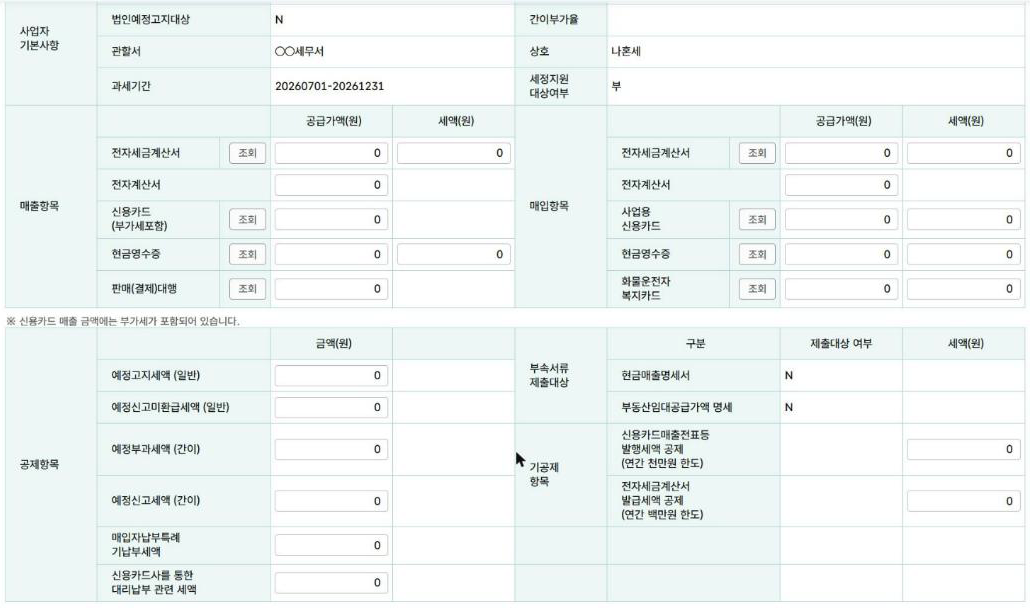
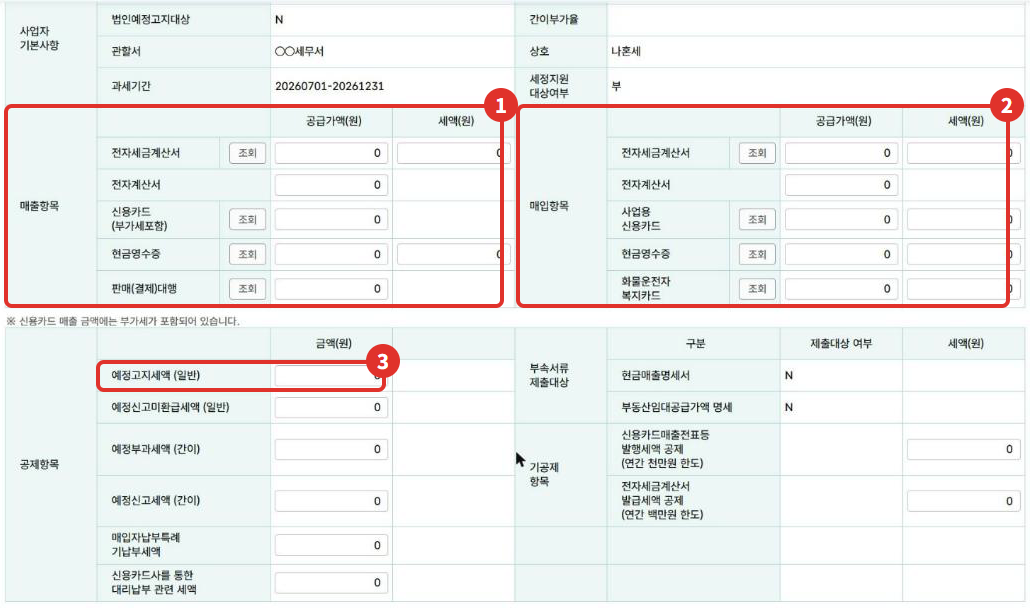
부가세 통합조회 글 캡처에 빨간 순서 표시

Changed region(s): [[0.0, 0.1246, 0.9942, 0.5295], [0.0932, 0.5607, 0.4039, 0.6541]]

diff --git a/_posts/2026-11-07-hometax-vat-data-calculator.md b/_posts/2026-11-07-hometax-vat-data-calculator.md
@@ -59,17 +59,17 @@ screen_checked: 2026-11
 > 📅 **2026년 11월 기준 화면**이에요(운영자 본인 사업자 계정, 개업 직후라 금액은 모두 0원). 메뉴 이름은 바뀔 수 있어요.
 
 1. 홈택스에 **사업자로 로그인**해요.
-2. **전체메뉴 > 세금신고 > 부가가치세 신고 > 신고도움 자료 조회 +**를 펼치고 **신고자료 통합조회**를 눌러요.
+2. **전체메뉴**에서 ① **세금신고** → 부가가치세 신고의 ② **신고도움 자료 조회 +**를 펼치고 ③ **신고자료 통합조회**를 눌러요.
 
    ![홈택스 전체메뉴 세금신고에서 부가가치세 신고의 신고도움 자료 조회를 펼친 목록과 신고자료 통합조회 위치](/assets/images/posts/hometax-vat-data-calculator/01-menu.png)
 
-3. 과세기간(년/기)과 **신고구분**을 고르고 **조회**를 눌러요.
+3. ① 과세기간(년/기)과 ② **신고구분**을 고르고 ③ **조회**를 눌러요.
    - 개인 일반과세자: **예정+확정**(6개월), **확정**(하반기 3개월), **예정**(상반기 3개월) 중에서 골라요 [4].
    - 간이과세자: **확정**을 고르면 1년(12개월)이 조회돼요 [4].
 
    ![부가가치세 신고자료 통합조회 서비스 안내문과 과세기간·신고구분·사업자등록번호 조회 칸 (사업자번호는 가림)](/assets/images/posts/hometax-vat-data-calculator/02-notice.png)
 
-4. 아래로 내리면 **매출항목·매입항목·공제항목** 표가 나와요. 칸 옆 **조회** 버튼을 누르면 상세 내역을 볼 수 있어요.
+4. 아래로 내리면 ① **매출항목** ② **매입항목** 표와 공제항목이 나와요. ③ **예정고지세액(일반)**은 공제항목에 있어요. 칸 옆 **조회** 버튼을 누르면 상세 내역을 볼 수 있어요.
 
    ![통합조회 결과 표: 매출항목(전자세금계산서, 전자계산서, 신용카드 부가세포함, 현금영수증, 판매결제대행), 매입항목(전자세금계산서, 전자계산서, 사업용 신용카드, 현금영수증, 화물운전자 복지카드), 공제항목(예정고지세액, 예정신고미환급세액, 예정부과세액, 예정신고세액 등)과 기공제 항목 (관할서는 가림)](/assets/images/posts/hometax-vat-data-calculator/03-table.png)
 
